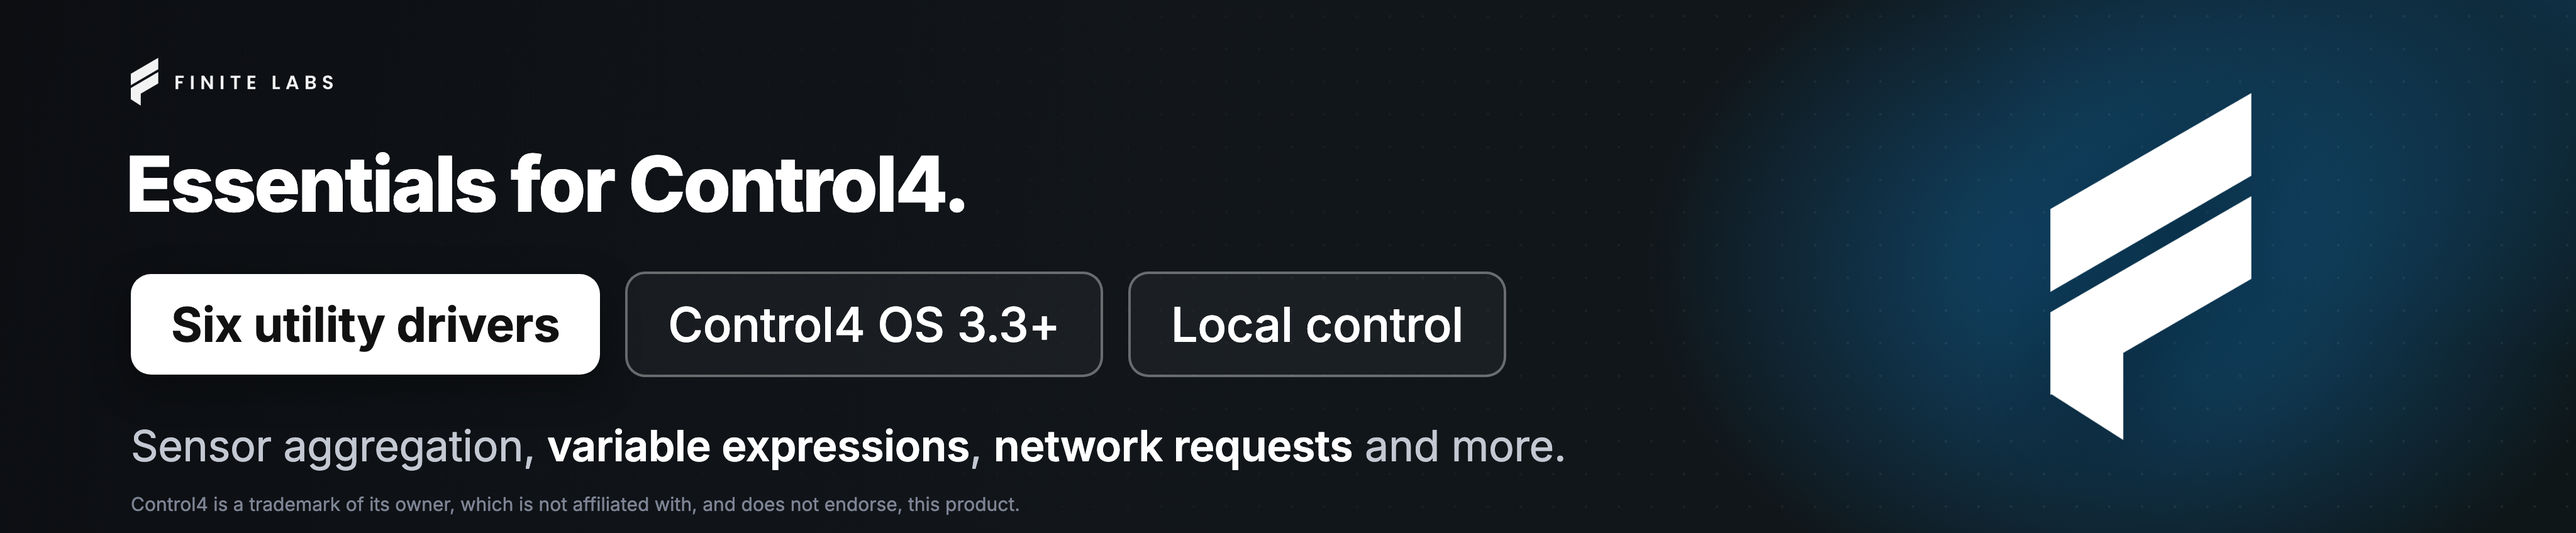
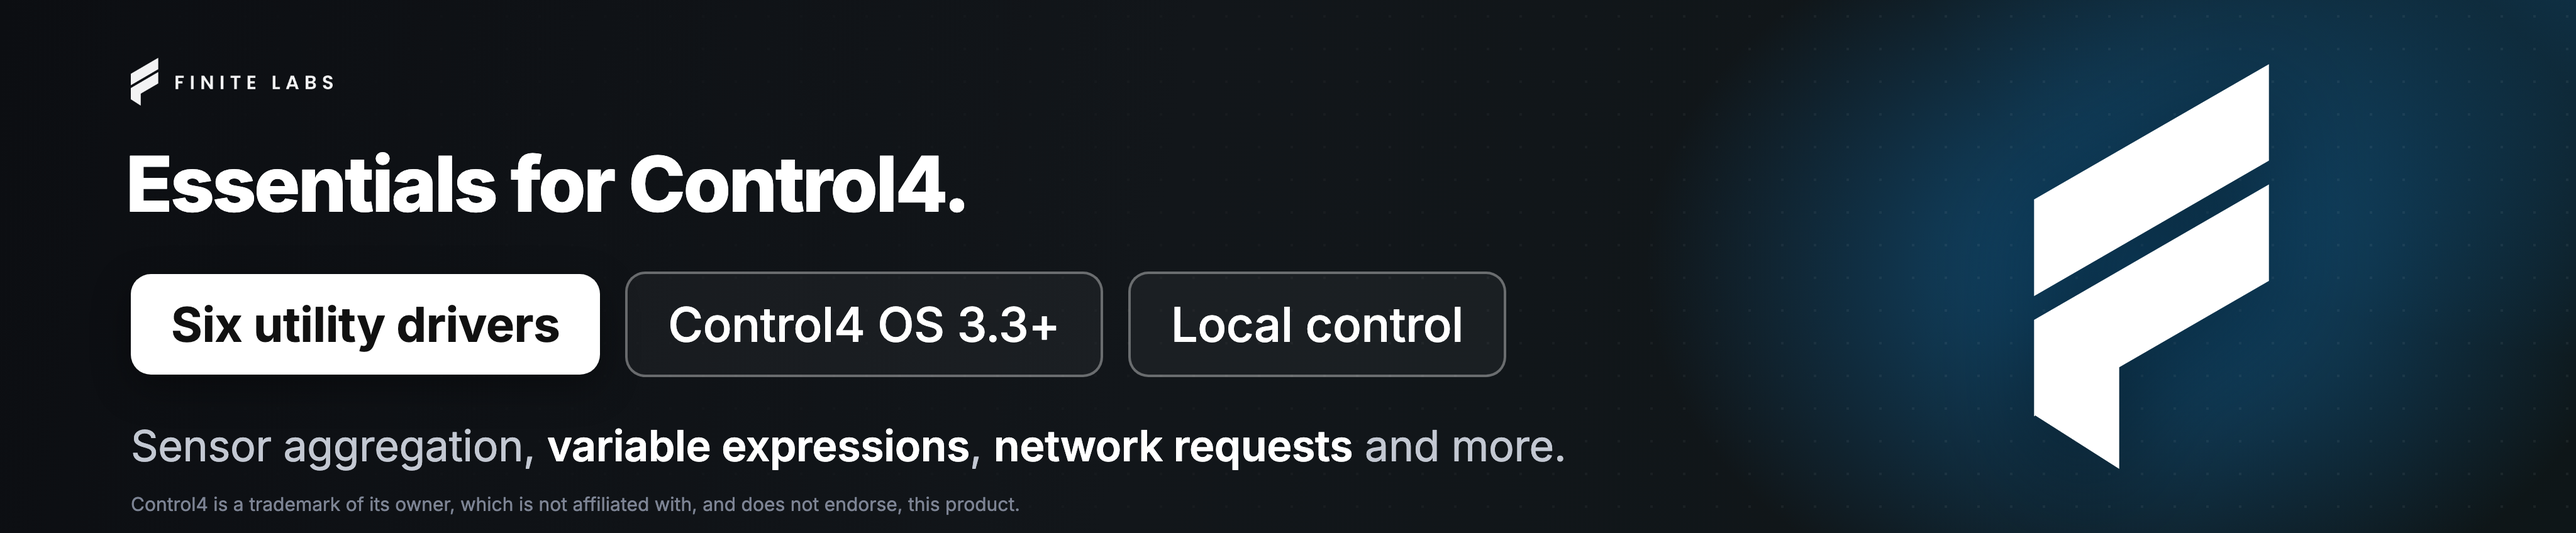
chore: the spotlight and launch-post marks are sized up to match across the drivers

diff --git a/resources/drivercentral/banners/spotlight-4096x848.html b/resources/drivercentral/banners/spotlight-4096x848.html
@@ -20,7 +20,7 @@
   .chip.line { color: #fff; border: 2px solid rgba(255,255,255,0.35); background: rgba(255,255,255,0.04); font-weight: 500; }
   .sub { position: absolute; left: 104px; top: 334px; color: #c3c8d2; font-size: 34px; font-weight: 400; letter-spacing: -0.005em; white-space: nowrap; }
   .sub em { font-style: normal; color: #fff; font-weight: 600; }
-  .mark { position: absolute; left: 1630px; top: 74px; width: 160px; height: 276px; object-fit: contain; filter: drop-shadow(0 18px 40px rgba(0,0,0,0.45)); }
+  .mark { position: absolute; left: 1617px; top: 51px; width: 187px; height: 322px; object-fit: contain; filter: drop-shadow(0 18px 40px rgba(0,0,0,0.45)); }
   .note { position: absolute; left: 104px; bottom: 14px; color: #7d8494; font-size: 15px; letter-spacing: 0; white-space: nowrap; }
 </style></head>
 <body>

diff --git a/resources/drivercentral/banners/launch-post-2400x1200.html b/resources/drivercentral/banners/launch-post-2400x1200.html
@@ -21,7 +21,7 @@
   .chip.line { color: #fff; border: 1.5px solid rgba(255,255,255,0.35); background: rgba(255,255,255,0.04); font-weight: 500; }
   .sub { margin: 32px 0 0 2px; color: #c3c8d2; font-size: 24px; line-height: 1.4; font-weight: 400; letter-spacing: -0.005em; }
   .sub em { font-style: normal; color: #fff; font-weight: 600; }
-  .mark { position: absolute; left: 870px; top: 190px; width: 128px; height: 221px; object-fit: contain; filter: drop-shadow(0 14px 32px rgba(0,0,0,0.45)); }
+  .mark { position: absolute; left: 834px; top: 135px; width: 191px; height: 330px; object-fit: contain; filter: drop-shadow(0 14px 32px rgba(0,0,0,0.45)); }
   .note { position: absolute; left: 74px; right: 74px; bottom: 20px; color: #7d8494; font-size: 13px; line-height: 1.35; }
 </style></head>
 <body>
